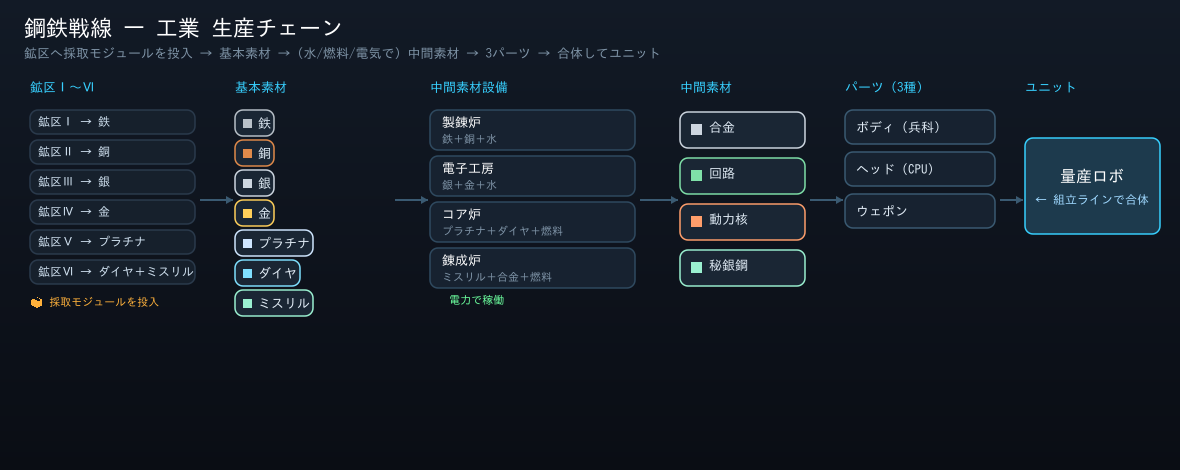
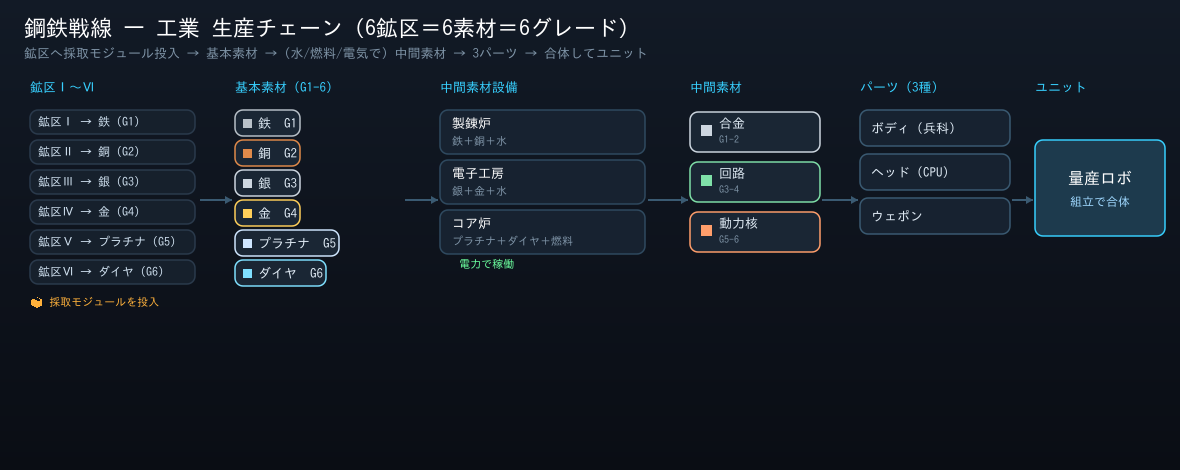
Remove mithril; complete 6 zones = 6 materials = 6 grades ladder
ミスリルを削除し、6鉱区＝6素材＝6グレードの対応関係を整備:
- 基本素材を6種に（鉄/銅/銀/金/プラチナ/ダイヤ）。鉱区Ⅵのミスリル副産を撤廃。
- 中間素材は3種に（合金=鉄+銅/G1-2, 回路=銀+金/G3-4, 動力核=プラチナ+ダイヤ/G5-6）。
  秘銀鋼と錬成炉を削除。重兵装コストを core+circuit に変更。
- ボディ/ウェポンのグレードを1〜6に拡張。規格Ⅱ〜Ⅵの研究は対応する鉱区の解放が前提
  （reqZone）＝ストーリーで素材ラダーを登るとグレードラダーが登れる。
- グレードは最大6でクランプ。ドット絵フレームは G1-2/G3-4/G5-6 の3段に対応。

検証: ボットで全4章クリア＝グレード6到達、6素材/3中間素材で破綻なし。
jsdom無例外。生産チェーン図を6素材6グレード版に更新（preview-chain.png）。

Claude-Session: https://claude.ai/code/session_01BHtK7EAC9nLuAJyf1xSjXa

diff --git a/game/js/data.js b/game/js/data.js
@@ -11,38 +11,37 @@
 
   G.MIN_DMG = 1;
 
-  // ===== 基本素材（鉱区で採取） =====
-  G.MATERIALS = ['iron', 'copper', 'silver', 'gold', 'platinum', 'diamond', 'mithril'];
+  // ===== 基本素材（鉱区で採取。6素材＝6鉱区＝6グレードのラダー） =====
+  G.MATERIALS = ['iron', 'copper', 'silver', 'gold', 'platinum', 'diamond'];
   G.MAT_INFO = {
-    iron:     { name: '鉄',       icon: '⛓', color: '#b8c0c8' },
-    copper:   { name: '銅',       icon: '🟧', color: '#e08a4a' },
-    silver:   { name: '銀',       icon: '⚪', color: '#cdd6e0' },
-    gold:     { name: '金',       icon: '🟡', color: '#ffcf5a' },
-    platinum: { name: 'プラチナ', icon: '⬜', color: '#cfe6ff' },
-    diamond:  { name: 'ダイヤ',   icon: '💎', color: '#7fe0ff' },
-    mithril:  { name: 'ミスリル', icon: '🔷', color: '#9af0d0' },
+    iron:     { name: '鉄',       icon: '⛓', color: '#b8c0c8', grade: 1 },
+    copper:   { name: '銅',       icon: '🟧', color: '#e08a4a', grade: 2 },
+    silver:   { name: '銀',       icon: '⚪', color: '#cdd6e0', grade: 3 },
+    gold:     { name: '金',       icon: '🟡', color: '#ffcf5a', grade: 4 },
+    platinum: { name: 'プラチナ', icon: '⬜', color: '#cfe6ff', grade: 5 },
+    diamond:  { name: 'ダイヤ',   icon: '💎', color: '#7fe0ff', grade: 6 },
   };
 
   // ===== 鉱区Ⅰ〜Ⅵ（採取モジュールを投入して素材を得る。ストーリーで解放） =====
-  //   mat = 主産物。Ⅵ(深層)のみ byproduct=mithril を副産。1モジュールあたり rate/秒。
+  //   鉱区Ⅰ→鉄(G1) … 鉱区Ⅵ→ダイヤ(G6)。1モジュールあたり rate/秒。
   G.ZONES = [
     { name: '鉱区Ⅰ', mat: 'iron',     rate: 0.55 },
     { name: '鉱区Ⅱ', mat: 'copper',   rate: 0.48 },
     { name: '鉱区Ⅲ', mat: 'silver',   rate: 0.40 },
     { name: '鉱区Ⅳ', mat: 'gold',     rate: 0.34 },
-    { name: '鉱区Ⅴ', mat: 'platinum', rate: 0.28 },
-    { name: '鉱区Ⅵ', mat: 'diamond',  rate: 0.22, byproduct: 'mithril', byRate: 0.07 },
+    { name: '鉱区Ⅴ', mat: 'platinum', rate: 0.30 },
+    { name: '鉱区Ⅵ', mat: 'diamond',  rate: 0.24 },
   ];
 
   // ===== ユーティリティ（設備を駆動する。電気=フロー、水/燃料=ストック） =====
   G.UTIL = { water: { name: '水', icon: '💧', color: '#5ec6ff' }, fuel: { name: '燃料', icon: '🛢', color: '#ffb13b' } };
 
-  // ===== 中間素材（設備が 基本素材＋水/燃料 から生産。電力で稼働効率が変わる） =====
+  // ===== 中間素材（設備が 基本素材＋水/燃料 から生産。グレード帯に対応） =====
+  //   合金=鉄+銅(G1-2) / 回路=銀+金(G3-4) / 動力核=プラチナ+ダイヤ(G5-6)
   G.INTERMEDIATES = {
     alloy:   { name: '合金',   icon: '🔩', color: '#cdd6e0', time: 1.4, mats: { iron: 1, copper: 1 }, water: 1, fac: 'smelter' },
     circuit: { name: '回路',   icon: '🧩', color: '#7fe0a8', time: 1.8, mats: { silver: 1, gold: 1 }, water: 1, fac: 'electro' },
     core:    { name: '動力核', icon: '🔋', color: '#ff9e6b', time: 2.2, mats: { platinum: 1, diamond: 1 }, fuel: 1, fac: 'coreforge' },
-    mythril: { name: '秘銀鋼', icon: '🔷', color: '#9af0d0', time: 2.6, mats: { mithril: 1 }, inter: { alloy: 1 }, fuel: 1, fac: 'lattice' },
   };
 
   // ===== パーツの中間素材コスト（最後にこの3種を合体してユニット） =====
@@ -53,7 +52,7 @@
     },
     head: { alloy: 1 },
     weapon: {
-      standard: { alloy: 1 }, splash: { alloy: 1, circuit: 1 }, chain: { alloy: 1, circuit: 1 }, heavyW: { core: 1, mythril: 1 },
+      standard: { alloy: 1 }, splash: { alloy: 1, circuit: 1 }, chain: { alloy: 1, circuit: 1 }, heavyW: { core: 1, circuit: 1 },
     },
   };
 
@@ -65,10 +64,9 @@
     pump:     { name: '取水ポンプ', icon: '💧', cost: 70, costScale: 1.2, power: -6, water: 0.7, cat: 'util', desc: '水を産出（電力消費）。' },
     refinery: { name: '精製所', icon: '🛢', cost: 95, costScale: 1.22, power: -8, fuel: 0.5, cat: 'util', desc: '燃料を精製（電力消費）。' },
     moduleFab:{ name: 'モジュール工房', icon: '📦', cost: 120, costScale: 1.24, power: -7, module: 0.10, cat: 'util', desc: '採取モジュールを製造（保有上限まで）。' },
-    smelter:  { name: '製錬炉', icon: '🔩', cost: 100, costScale: 1.22, power: -10, make: 'alloy', cat: 'smelt', desc: '鉄＋銅＋水 → 合金。' },
-    electro:  { name: '電子工房', icon: '🧩', cost: 125, costScale: 1.24, power: -10, make: 'circuit', cat: 'smelt', desc: '銀＋金＋水 → 回路。' },
-    coreforge:{ name: 'コア炉', icon: '🔋', cost: 155, costScale: 1.26, power: -14, make: 'core', cat: 'smelt', desc: 'プラチナ＋ダイヤ＋燃料 → 動力核。' },
-    lattice:  { name: '錬成炉', icon: '🔷', cost: 185, costScale: 1.28, power: -16, make: 'mythril', cat: 'smelt', desc: 'ミスリル＋合金＋燃料 → 秘銀鋼。' },
+    smelter:  { name: '製錬炉', icon: '🔩', cost: 100, costScale: 1.22, power: -10, make: 'alloy', cat: 'smelt', desc: '鉄＋銅＋水 → 合金（G1-2）。' },
+    electro:  { name: '電子工房', icon: '🧩', cost: 125, costScale: 1.24, power: -10, make: 'circuit', cat: 'smelt', desc: '銀＋金＋水 → 回路（G3-4）。' },
+    coreforge:{ name: 'コア炉', icon: '🔋', cost: 155, costScale: 1.26, power: -14, make: 'core', cat: 'smelt', desc: 'プラチナ＋ダイヤ＋燃料 → 動力核（G5-6）。' },
     lab:      { name: '研究所', icon: '🔬', cost: 110, costScale: 1.24, power: -8, research: 0.55, cat: 'base', desc: '研究ポイントを蓄積。' },
     depot:    { name: '貯蔵庫', icon: '🏪', cost: 70, costScale: 1.2, power: -1, cap: 200, cat: 'base', desc: '素材・中間素材の貯蔵上限+200。' },
     relay:    { name: '通信中継塔', icon: '📡', cost: 120, costScale: 1.25, power: -4, capacity: 6, cat: 'base', desc: '指揮容量+6。' },
@@ -156,15 +154,22 @@
     body_heavy:  { name: '重装兵 開発', branch: '機体', cost: 70, req: [], desc: '重装兵ボディを解放。', effect: { unlockBody: 'heavy' } },
     body_shooter:{ name: '射撃兵 開発', branch: '機体', cost: 60, req: [], desc: '射撃兵ボディ（対空）を解放。', effect: { unlockBody: 'shooter' } },
     body_flyer:  { name: '飛行兵 開発', branch: '機体', cost: 110, req: ['body_shooter'], desc: '飛行兵ボディを解放。', effect: { unlockBody: 'flyer' } },
-    bodyTier2:   { name: 'ボディ規格Ⅱ', branch: '機体', cost: 80, req: ['body_heavy'], desc: '全ボディのグレードを2に。', effect: { bodyTier: 2 } },
-    bodyTier3:   { name: 'ボディ規格Ⅲ', branch: '機体', cost: 160, req: ['bodyTier2'], desc: '全ボディのグレードを3に。', effect: { bodyTier: 3 } },
+    // ボディ規格Ⅱ〜Ⅵ（グレード2〜6）。対応する鉱区(=素材)の解放が前提＝6素材6グレード対応。
+    bodyTier2: { name: 'ボディ規格Ⅱ', branch: '機体', cost: 70, req: ['body_heavy'], reqZone: 1, desc: '全ボディをグレード2に（要 鉱区Ⅱ／銅）。', effect: { bodyTier: 2 } },
+    bodyTier3: { name: 'ボディ規格Ⅲ', branch: '機体', cost: 110, req: ['bodyTier2'], reqZone: 2, desc: '全ボディをグレード3に（要 鉱区Ⅲ／銀）。', effect: { bodyTier: 3 } },
+    bodyTier4: { name: 'ボディ規格Ⅳ', branch: '機体', cost: 160, req: ['bodyTier3'], reqZone: 3, desc: '全ボディをグレード4に（要 鉱区Ⅳ／金）。', effect: { bodyTier: 4 } },
+    bodyTier5: { name: 'ボディ規格Ⅴ', branch: '機体', cost: 220, req: ['bodyTier4'], reqZone: 4, desc: '全ボディをグレード5に（要 鉱区Ⅴ／プラチナ）。', effect: { bodyTier: 5 } },
+    bodyTier6: { name: 'ボディ規格Ⅵ', branch: '機体', cost: 300, req: ['bodyTier5'], reqZone: 5, desc: '全ボディをグレード6に（要 鉱区Ⅵ／ダイヤ）。', effect: { bodyTier: 6 } },
 
     // 武装（ウェポン種類 / ウェポングレード）
     wp_splash: { name: '拡散兵装 開発', branch: '武装', cost: 60, req: [], desc: '拡散兵装（範囲攻撃）を解放。', effect: { unlockWeapon: 'splash' } },
     wp_chain:  { name: '連鎖兵装 開発', branch: '武装', cost: 90, req: ['wp_splash'], desc: '連鎖兵装を解放。', effect: { unlockWeapon: 'chain' } },
     wp_heavy:  { name: '重兵装 開発', branch: '武装', cost: 100, req: ['wp_splash'], desc: '重兵装（単体高火力）を解放。', effect: { unlockWeapon: 'heavyW' } },
-    wpTier2:   { name: '兵装規格Ⅱ', branch: '武装', cost: 80, req: ['wp_splash'], desc: '全ウェポンのグレードを2に。', effect: { weaponTier: 2 } },
-    wpTier3:   { name: '兵装規格Ⅲ', branch: '武装', cost: 160, req: ['wpTier2'], desc: '全ウェポンのグレードを3に。', effect: { weaponTier: 3 } },
+    wpTier2: { name: '兵装規格Ⅱ', branch: '武装', cost: 70, req: ['wp_splash'], reqZone: 1, desc: '全ウェポンをグレード2に（要 鉱区Ⅱ／銅）。', effect: { weaponTier: 2 } },
+    wpTier3: { name: '兵装規格Ⅲ', branch: '武装', cost: 110, req: ['wpTier2'], reqZone: 2, desc: '全ウェポンをグレード3に（要 鉱区Ⅲ／銀）。', effect: { weaponTier: 3 } },
+    wpTier4: { name: '兵装規格Ⅳ', branch: '武装', cost: 160, req: ['wpTier3'], reqZone: 3, desc: '全ウェポンをグレード4に（要 鉱区Ⅳ／金）。', effect: { weaponTier: 4 } },
+    wpTier5: { name: '兵装規格Ⅴ', branch: '武装', cost: 220, req: ['wpTier4'], reqZone: 4, desc: '全ウェポンをグレード5に（要 鉱区Ⅴ／プラチナ）。', effect: { weaponTier: 5 } },
+    wpTier6: { name: '兵装規格Ⅵ', branch: '武装', cost: 300, req: ['wpTier5'], reqZone: 5, desc: '全ウェポンをグレード6に（要 鉱区Ⅵ／ダイヤ）。', effect: { weaponTier: 6 } },
 
     // CPU / ヘッド
     cpu_armor:   { name: 'CPU:装甲', branch: 'CPU', cost: 45, req: [], desc: '装甲CPUを解放。', effect: { unlockCpu: 'cpu_armor' } },

diff --git a/game/js/game.js b/game/js/game.js
@@ -22,8 +22,8 @@
       zones: G.ZONES.map(function () { return { unlocked: false, modules: 0 }; }),
       grantsApplied: {},
       // 設備（カウント式）
-      buildings: { reactor: 4, pump: 1, refinery: 1, moduleFab: 1, smelter: 2, electro: 0, coreforge: 0, lattice: 0, lab: 1, depot: 0, relay: 0, turret: 0 },
-      proc: { smelter: 0, electro: 0, coreforge: 0, lattice: 0 },
+      buildings: { reactor: 4, pump: 1, refinery: 1, moduleFab: 1, smelter: 2, electro: 0, coreforge: 0, lab: 1, depot: 0, relay: 0, turret: 0 },
+      proc: { smelter: 0, electro: 0, coreforge: 0 },
       // 部品工場（インスタンス）
       bodyFabs: [{ assign: 'infantry', prog: 0 }],
       headFabs: [{ prog: 0 }],
@@ -69,8 +69,8 @@
     }
     for (var id in state.researched) if (state.researched[id]) applyEffect(G.TECHS[id].effect);
     applyEffect(state.perm);
-    tier.body += (state.perm.bodyTierBonus || 0);
-    tier.weapon += (state.perm.weaponTierBonus || 0);
+    tier.body = Math.min(6, tier.body + (state.perm.bodyTierBonus || 0));   // グレードは最大6
+    tier.weapon = Math.min(6, tier.weapon + (state.perm.weaponTierBonus || 0));
 
     m.powerSave = Math.min(0.6, m.powerSave);
     state.mod = m;
@@ -154,6 +154,7 @@
   function canResearch(id) {
     var t = G.TECHS[id]; if (state.researched[id]) return false;
     for (var i = 0; i < t.req.length; i++) if (!state.researched[t.req[i]]) return false;
+    if (t.reqZone != null && !(state.zones[t.reqZone] && state.zones[t.reqZone].unlocked)) return false; // 鉱区前提
     return state.research >= t.cost;
   }
   function doResearch(id) { if (!canResearch(id)) return false; state.research -= G.TECHS[id].cost; state.researched[id] = true; recomputeMod(); return true; }

diff --git a/game/js/ui.js b/game/js/ui.js
@@ -136,7 +136,7 @@
     var wrap = $('tab-fac');
     wrap.innerHTML =
       '<div class="hint">設備の建設コストは<b>鉄</b>。電力で稼働し、製錬系が 基本素材＋水/燃料 から' +
-      '<b>中間素材</b>（合金・回路・動力核・秘銀鋼）を生産する。</div>' +
+      '<b>中間素材</b>（合金・回路・動力核）を生産する。</div>' +
       '<div id="util-box"></div><div class="cards" id="fac-cards"></div>';
     renderUtilBox();
     var grid = $('fac-cards');

diff --git a/game/js/sprites.js b/game/js/sprites.js
@@ -317,9 +317,10 @@
     infantry: [inf1, inf2, inf3], assault: [asl1, asl2, asl3], heavy: [hvy1, hvy2, hvy3],
     shooter: [sht1, sht2, sht3], flyer: [fly1, fly2, fly3],
   };
+  // グレード1〜6 → 3フレーム（Ⅰ:G1-2 / Ⅱ:G3-4 / Ⅲ:G5-6）
   G.unitFrame = function (body, grade) {
     var f = G.UNIT_FRAMES[body]; if (!f) return G.SPRITES[body];
-    var i = grade >= 3 ? 2 : grade >= 2 ? 1 : 0;
+    var i = grade >= 5 ? 2 : grade >= 3 ? 1 : 0;
     return f[Math.min(i, f.length - 1)];
   };
 
